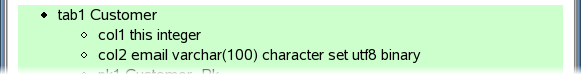
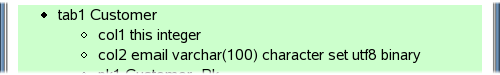
remake screenshot images to 500 width and fade out
git-svn-id: https://svn.exedio.com/cope/trunk/persistence@6394 e7d4fc99-c606-0410-b9bf-843393a9eab7

Changed region(s): [[0.0, 0.0, 1.0, 0.9867], [0.12, 0.6133, 0.84, 0.8267], [0.12, 0.3733, 0.42, 0.5867]]

diff --git a/home/schema.html b/home/schema.html
@@ -9,7 +9,6 @@
 			{
 				border:0;
 				margin:12pt;
-				width:581px;
 			}
 		</style>
 	</head>
@@ -41,7 +40,7 @@
 			select the Tabulator <i>Schema</i>,
 			and you will see something like this:
 		</div>
-		<img src="schema1.png" class="console" />
+		<img src="schema1.png" class="console" width="500" />
 		<div>
 			The example model used to create this screenshot
 			contains two types <tt>Customer</tt> and <tt>Order</tt>.
@@ -57,7 +56,7 @@ public class Customer extends Item
 			Now click on the table <i>Customer</i>
 			to see the table details:
 		</div>
-		<img src="schema2.png" class="console" />
+		<img src="schema2.png" class="console" width="500" />
 		<div>
 			This shows you two columns:
 			<ul>
@@ -96,13 +95,13 @@ public class Customer extends Item
 			If you start up the new application containing the new field,
 			the <i>Schema</i> looks like this:
 		</div>
-		<img src="schema3.png" class="console" />
+		<img src="schema3.png" class="console" width="500" />
 		<div>
 			The red color tells you,
 			something is wrong with table <i>Customer</i>.
 			Click on it for further details:
 		</div>
-		<img src="schema4.png" class="console" />
+		<img src="schema4.png" class="console" width="500" />
 		<div>
 			Again, the red color tells you,
 			that something is wrong with column <i>blocked</i>.
@@ -112,14 +111,14 @@ public class Customer extends Item
 			and push the button <i>Apply</i> further up the page.
 			The next screen looks like this:
 		</div>
-		<img src="schema5.png" class="console" />
+		<img src="schema5.png" class="console" width="500" />
 		<div>
 			The only difference is,
 			that column <i>blocked</i> does exists now,
 			and therefore the red background turned to green.
 			On the same page there is a log about COPE's activities:
 		</div>
-		<img src="schema5a.png" class="console" />
+		<img src="schema5a.png" class="console" width="581" />
 		<div>
 			This shows you, that column <i>blocked</i> of table
 			<i>Customer</i> just has been created.
